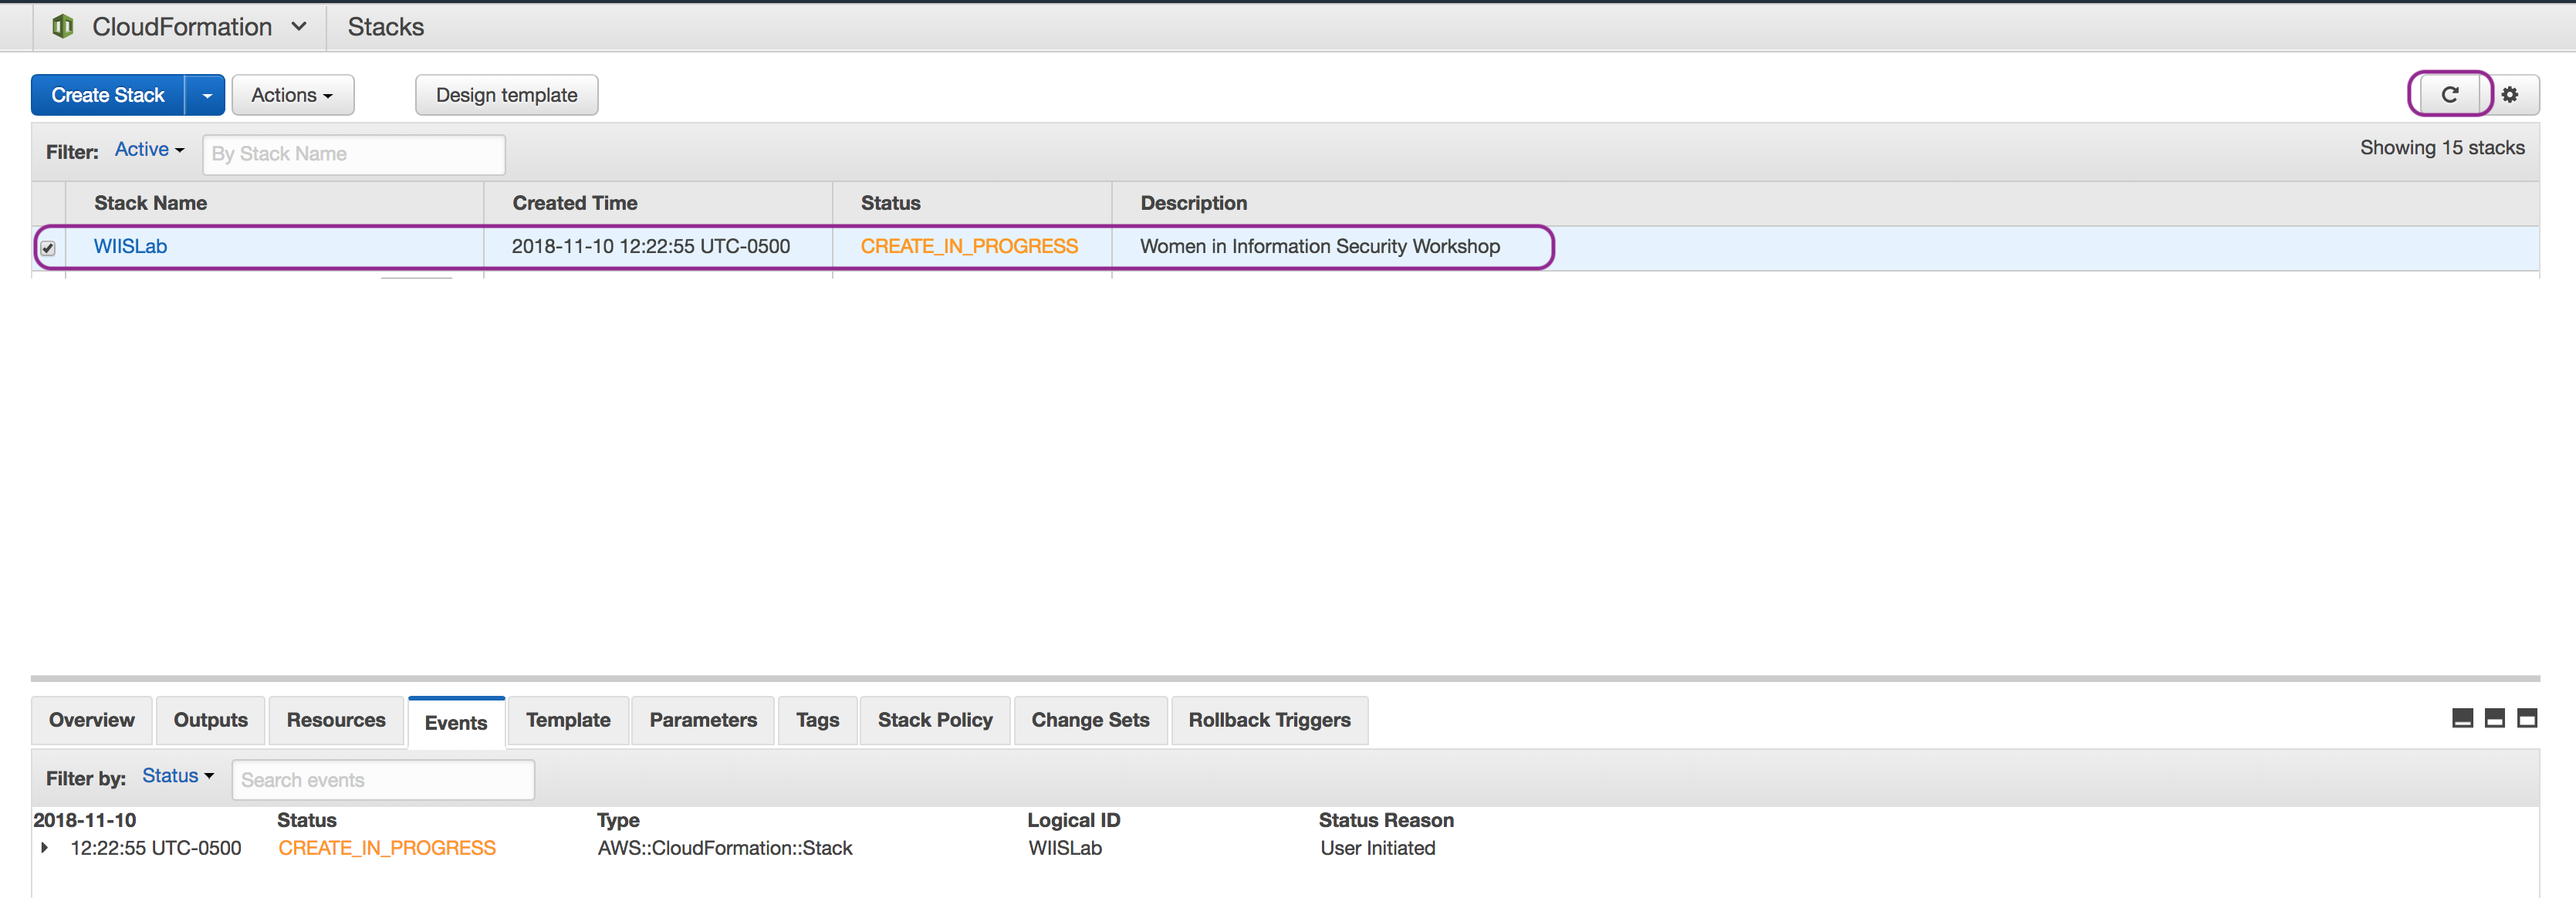
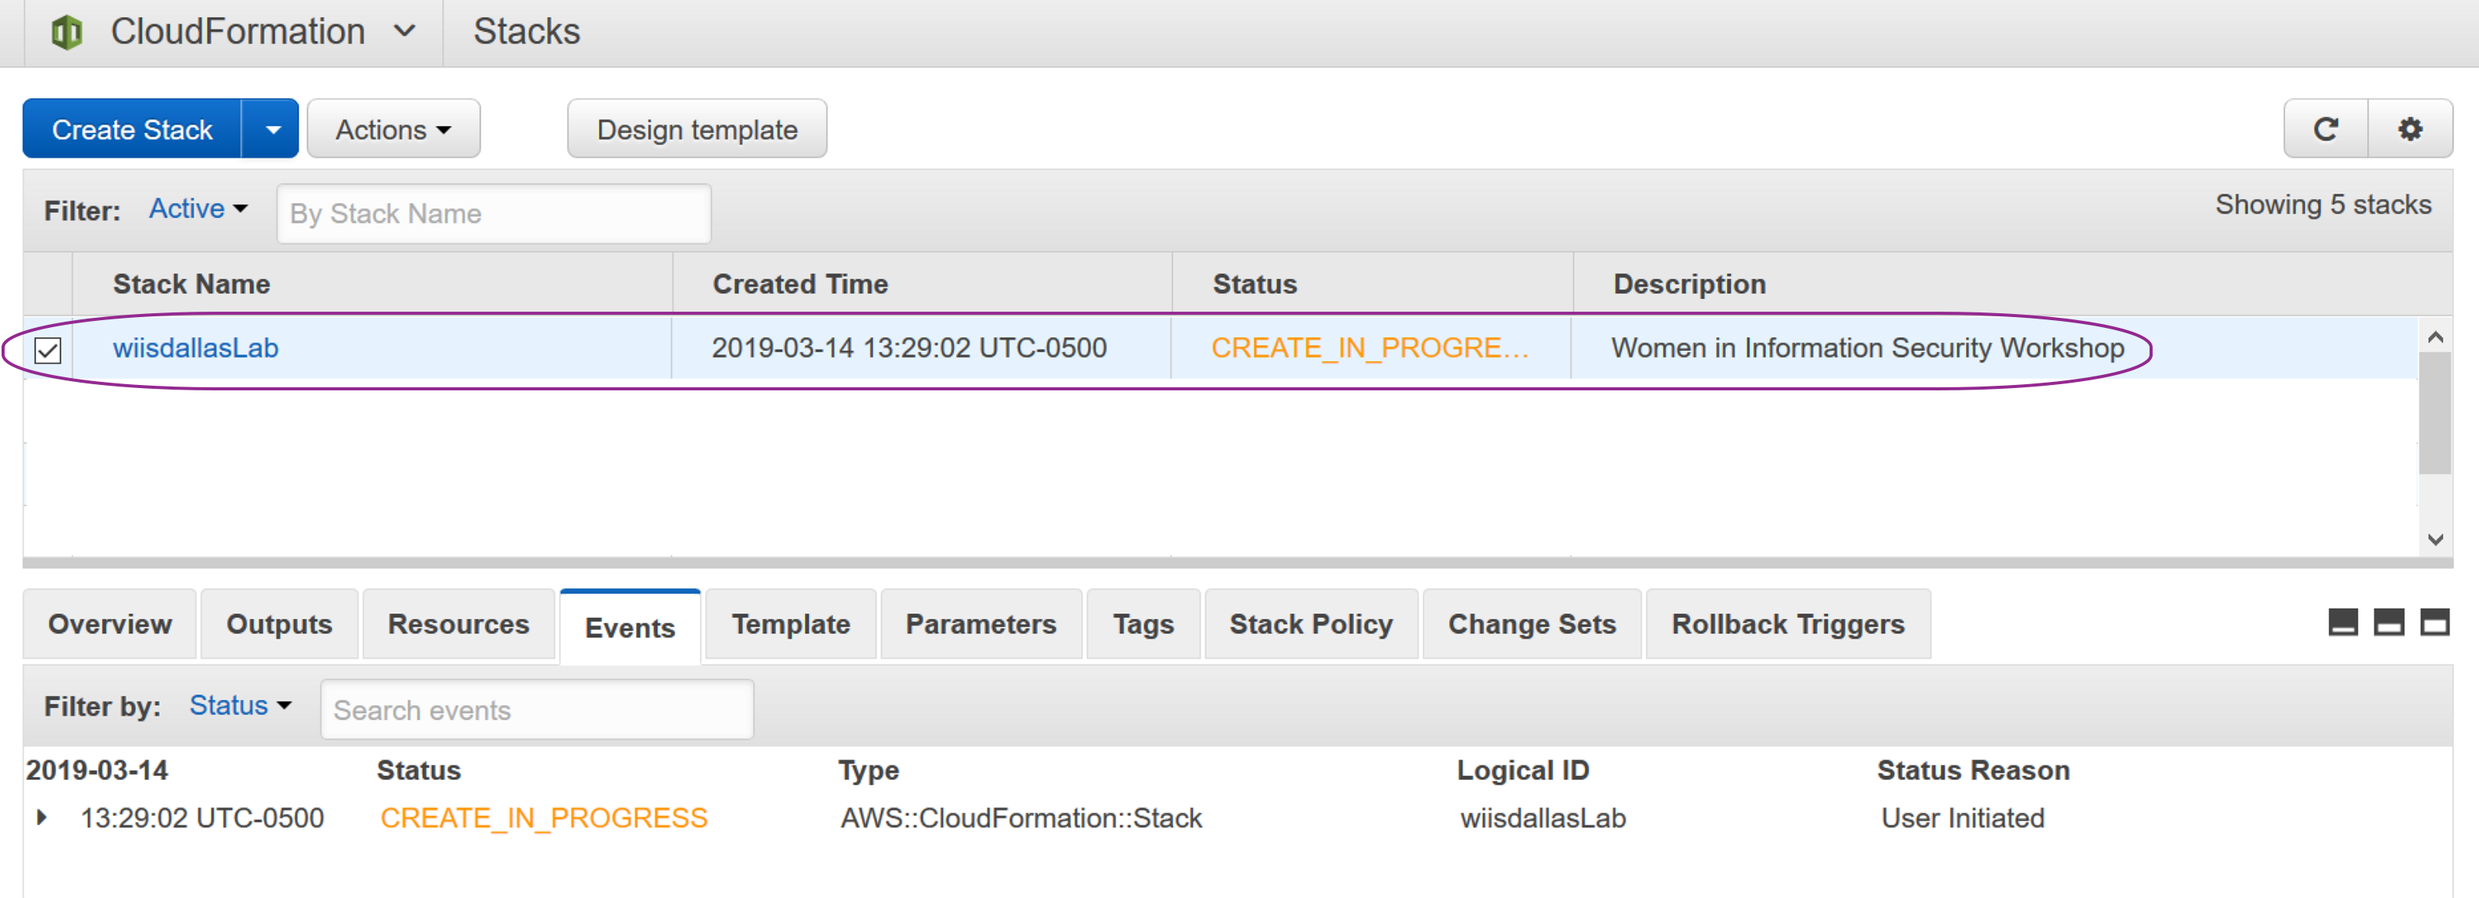
updated screenshots

Changed region(s): [[0.0, 0.0, 1.0, 0.5258], [0.0, 0.6186, 0.996, 0.9588], [0.9337, 0.6804, 0.996, 0.7113]]

diff --git a/AWS_Lab_Setup/README.md b/AWS_Lab_Setup/README.md
@@ -16,7 +16,7 @@ The navigation pane is on the left side of the Amazon EC2 console. If you do not
 
 ![](https://github.com/Halimer/wiis_dallas/blob/master/images/AWS_Key_Pair_Name.png)
 
-3. Enter a **wiis_dallas-Lab** in the Key pair name field of the Create Key Pair dialog box, and then choose **Create**.
+3. Enter a **WIIS_Dallas** in the Key pair name field of the Create Key Pair dialog box, and then choose **Create**.
 4. The private key file is automatically downloaded by your browser. The base file name is the name you specified as the name of your key pair, and the file name extension is .pem. Save the private key file in a safe place.
 
 **Important**
@@ -28,24 +28,31 @@ This is the only chance for you to save the private key file. You'll need to pro
 1. Click <a href="https://console.aws.amazon.com/cloudformation/home?region=us-east-1#/stacks/new?stackName=wiisdallasLab&templateURL=https://s3-us-west-2.amazonaws.com/johammer/Public/LabEnvironment.template" target="_blank">Launch CloudFormation</a>
 
 2. Click the **Next** button
+
 ![](https://github.com/Halimer/wiis_dallas/blob/master/images/CFT_S3_Template.png)
 
 3. Select 'wiis_dallas-Lab' as the **KeyName**
+
 ![](https://github.com/Halimer/wiis_dallas/blob/master/images/CFT_Details_Template.png)
 
 4. Click the **Next** button
 5. Under **Key** enter 'Name'
 6. Under **Value** enter 'WIIS-Dallas'
+
+Leave all other fields as the default
+
 ![](https://github.com/Halimer/wiis_dallas/blob/master/images/CFT_Options.png)
 
 7. Click the **Next** button
+
 ![](https://github.com/Halimer/wiis_dallas/blob/master/images/CFT_Review.png)
 
 8. Select 'I acknowledge that AWS CloudFormation might create IAM resources.'
 9. Click the **Create** button
+
 ![](https://github.com/Halimer/wiis_dallas/blob/master/images/CFT_Review.png)
 
-10. Select the **wiis_dallasLab**
+10. Select the **wiisdallasLab**
 11. Click the ![](https://github.com/Halimer/wiis_dallas/blob/master/images/CFT_Refresh_Button.png)
 ![](https://github.com/Halimer/wiis_dallas/blob/master/images/CFT_Create_In_Progress.png)
 
@@ -53,6 +60,7 @@ This is the only chance for you to save the private key file. You'll need to pro
 
 13. Select **Outputs**
 14. Click on **URL**
+
 ![](https://github.com/Halimer/wiis_dallas/blob/master/images/CFT_Create_Complete.png)
 
 15. You should see the below
